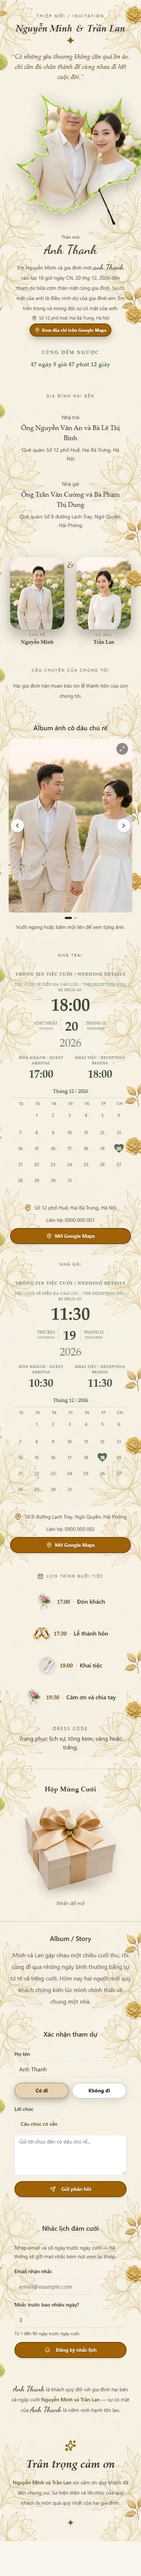
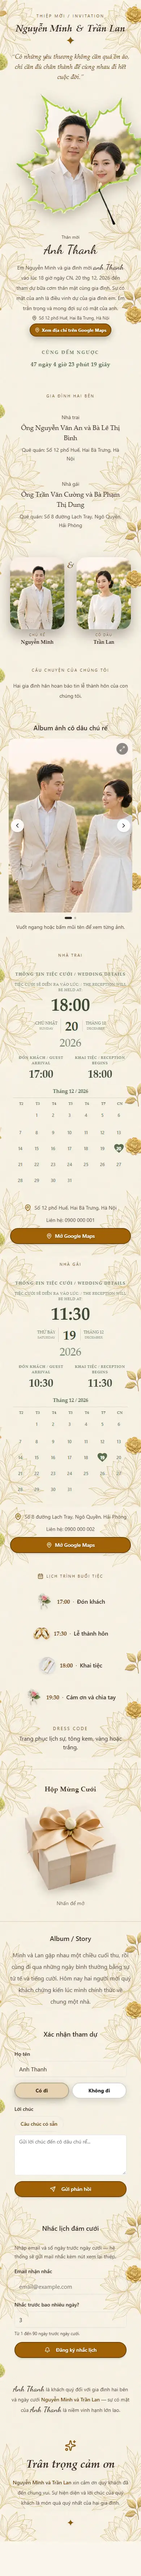
Keep the lotus leaf couple photo below the maple notch so it no longer crops the groom.

Changed region(s): [[0.2154, 0.0312, 1.0, 0.0937]]

diff --git a/src/lib/wedding/wedding-sample-cards.ts b/src/lib/wedding/wedding-sample-cards.ts
@@ -133,7 +133,8 @@ function moonSamplePositionY(shape: WeddingMoonShape): number {
 }
 
 function leafSamplePositionY(paper: WeddingGateToneId): number {
-  if (paper === 'lotus') return 42
+  // Lá phong vàng: mép trên giữ nguyên để khuyết giữa lá không cắt trán chú rể.
+  if (paper === 'lotus') return 0
   return 22
 }
 
